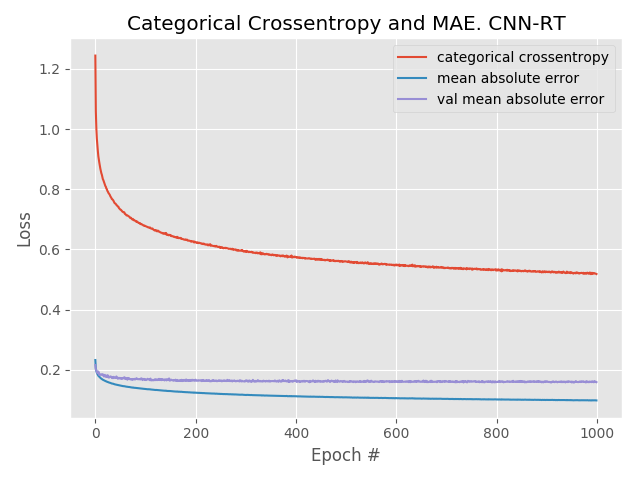
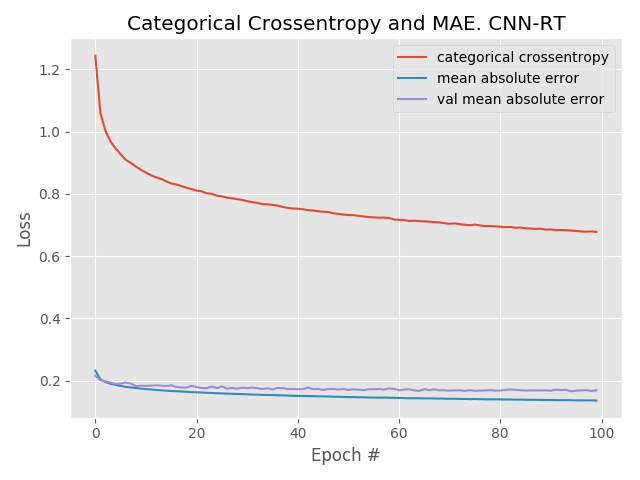
graphs added

diff --git a/graphics.py b/graphics.py
@@ -45,9 +45,9 @@ cnn_rt_val_acc = cnn_rt_history['val_acc']
 cnn_rt_mae = cnn_rt_history['val_mean_absolute_error']
 
 plt.style.use("ggplot")
-plt.plot(np.arange(0, 1000), cnn_rt_loss,label = 'categorical crossentropy')
-plt.plot(np.arange(0, 1000), cnn_rt_mean_absolute_error,label = 'mean absolute error')
-plt.plot(np.arange(0, 1000), cnn_rt_mae,label = 'val mean absolute error')
+plt.plot(np.arange(0, 100), cnn_rt_loss[:100],label = 'categorical crossentropy')
+plt.plot(np.arange(0, 100), cnn_rt_mean_absolute_error[:100],label = 'mean absolute error')
+plt.plot(np.arange(0, 100), cnn_rt_mae[:100],label = 'val mean absolute error')
 plt.title("Categorical Crossentropy and MAE. CNN-RT")
 plt.xlabel("Epoch #")
 plt.ylabel("Loss")

diff --git a/README.MD b/README.MD
@@ -1,1 +1,2 @@
 README.
+
